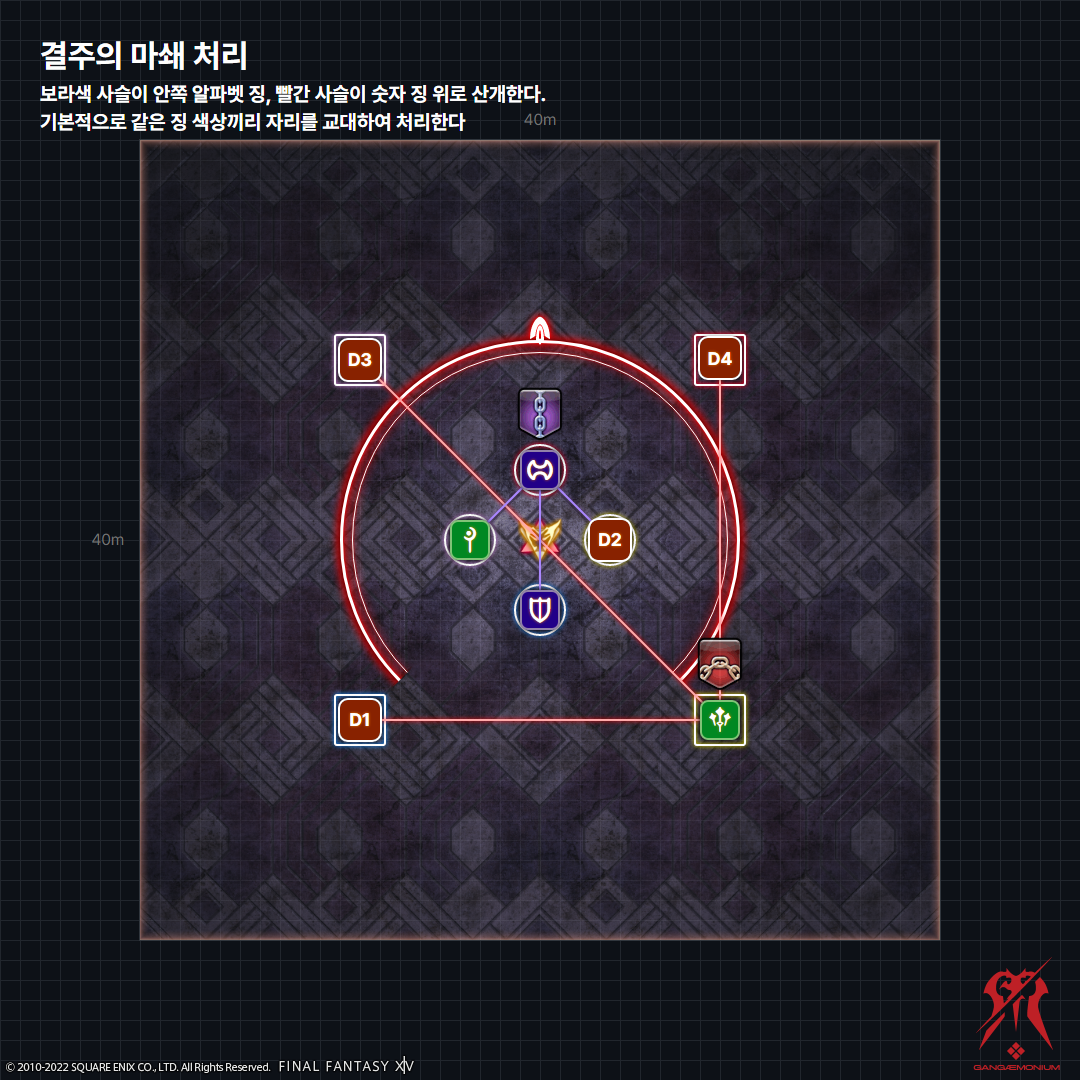
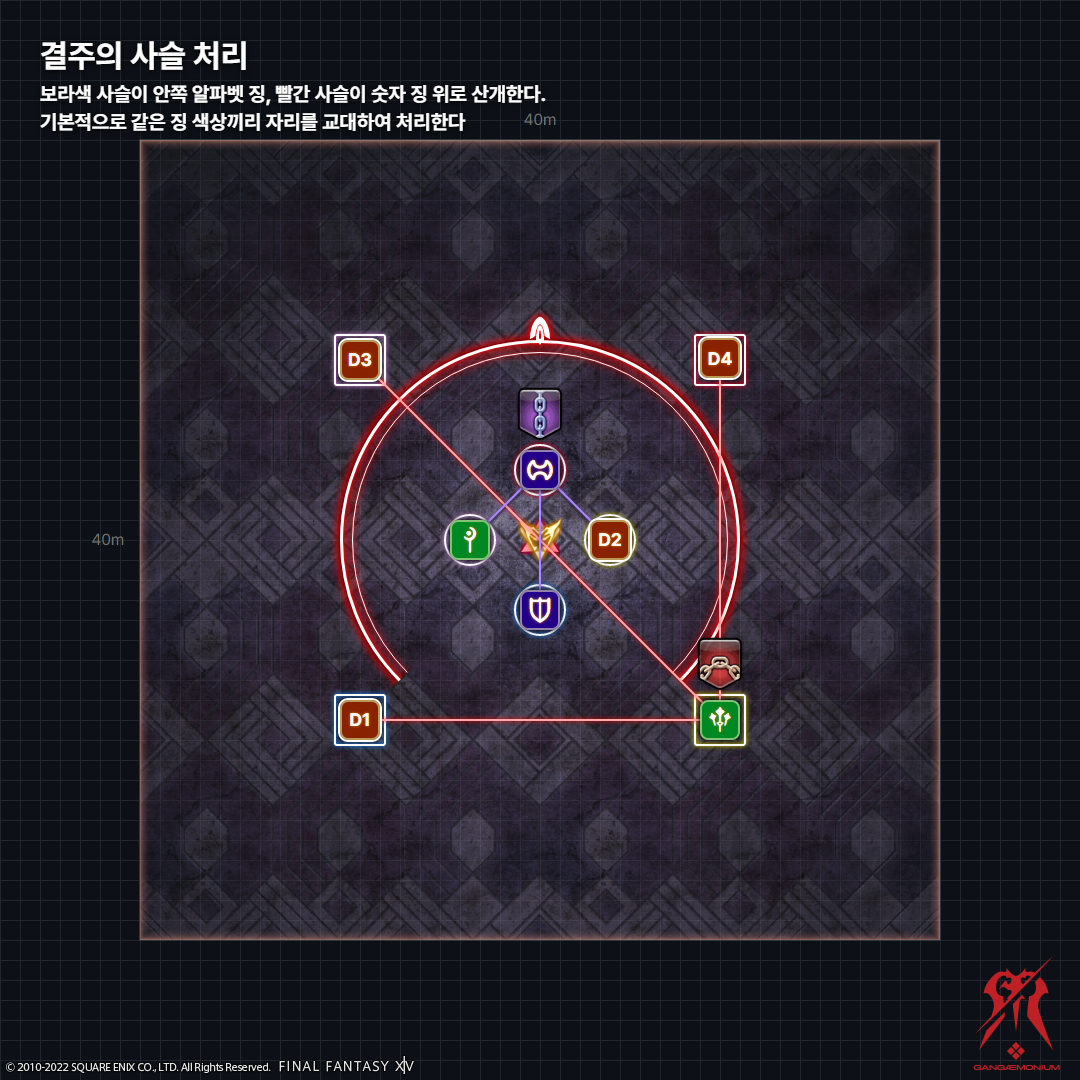
update `p1s`

Changed region(s): [[0.0306, 0.0306, 0.4278, 0.1222], [0.4583, 0.0611, 0.4889, 0.0917], [0.0306, 0.0306, 0.0611, 0.0611]]

diff --git a/timeline/p1s.md b/timeline/p1s.md
@@ -16,118 +16,117 @@
 ### 1층 타임라인
 --------
 
-|Time|J: 기술명(일)<br>E: 기술명(영)<br>번역: 기술명(번역)<br>한: 기술명(한)|설명|
+|Time|J: 기술명(일)<br>E: 기술명(영)<br>한: 기술명(번역)|설명|
 |---:|---|---|
 |0:00||보스 평타: 물딜|
-|0:14|J: 痛撃<br>E: Heavy Hand<br>번역: 통격<br>한: |1어글자 강공격|
-|0:23|J: 結呪の魔鎖<br>E: Aetherial Shackles<br>번역: 결주의 마쇄<br>한: |랜덤 2명에게 근주/원주의 마쇄 부여|
-|0:32|J: 魔鎖乱流<br>E: Warder's Wrath<br>번역: 마쇄난류<br>한: |광딜|
-|0:42|J: 結呪執行<br>E: Chain Pain<br>번역: 결주집행<br>한: |근주/원주의 마쇄 발동|
-|0:58|J: 懲罰撃<br>E: Gaoler's Flail<br>번역: 징벌격<br>한: |사슬을 떨어뜨린 순서대로 270˚ 부채꼴 공격 1타|
-|1:01|J: 懲罰撃<br>E: Gaoler's Flail<br>번역: 징벌격<br>한: |사슬을 떨어뜨린 순서대로 270˚ 부채꼴 공격 2타|
-|1:12|J: 懲罰連撃：炎<br>E: Pitiless Flail of Purgation<br>번역: 징벌연격: 염<br>한: |1어글자에게 넉백공격 이후 1어글자 기준 거리감쇄|
-||J: 懲罰連撃：聖<br>E: Pitiless Flail of Grace<br>번역: 징벌연격: 성<br>한: |1어글자에게 넉백공격 이후 1어글자 기준 쉐어|
-|1:16|J: トゥルー・フレア<br>E: True Flare<br>번역: 진 플레어<br>한: |1어글자 기준 거리 감쇄|
-||J: トゥルー・ホーリー<br>E: True Holy<br>번역: 진 홀리<br>한: |1어글자 기준 쉐어|
-|1:31|J: 懲罰撃<br>E: Gaoler's Flail<br>번역: 징벌격<br>한: |사슬을 떨어뜨린 순서대로 다이나모(차크람) OR 채리엇(모닝스타) 1타|
-|1:34|J: 懲罰撃<br>E: Gaoler's Flail<br>번역: 징벌격<br>한: |사슬을 떨어뜨린 순서대로 다이나모(차크람) OR 채리엇(모닝스타) 2타|
-|1:58|J: 氷炎の侵食<br>E: Intemperance<br>번역: 얼음과 불의 침식<br>한: |필드 9개로 나눠지고 크리스탈 생성|
-|2:15|J: 侵食執行<br>E: Intemperate Torment<br>번역: 침식집행<br>한: |크리스탈 발동|
-||J: 魔力解放・火<br>E: Hot Spell<br>번역: 마력 해방: 불<br>한: |크리스탈 폭발|
-||J: 魔力解放・氷<br>E: Cold Spell<br>번역: 마력 해방: 얼음<br>한: |크리스탈 폭발|
-|2:22|J: 魔鎖乱流<br>E: Warder's Wrath<br>번역: 마쇄난류<br>한: |광딜|
-|2:27|J: 魔力解放・火<br>E: Hot Spell<br>번역: 마력 해방: 불<br>한: |크리스탈 폭발|
-||J: 魔力解放・氷<br>E: Cold Spell<br>번역: 마력 해방: 얼음<br>한: |크리스탈 폭발|
-|2:32|J: 魔鎖乱流<br>E: Warder's Wrath<br>번역: 마쇄난류<br>한: |광딜|
-|2:37|J: 魔力解放・火<br>E: Hot Spell<br>번역: 마력 해방: 불<br>한: |크리스탈 폭발|
-||J: 魔力解放・氷<br>E: Cold Spell<br>번역: 마력 해방: 얼음<br>한: |크리스탈 폭발|
-|2:49|J: 懲罰連撃：炎<br>E: Pitiless Flail of Purgation<br>번역: 징벌연격: 염<br>한: |1어글자에게 넉백공격 이후 1어글자 기준 거리감쇄|
-||J: 懲罰連撃：聖<br>E: Pitiless Flail of Grace<br>번역: 징벌연격: 성<br>한: |1어글자에게 넉백공격 이후 1어글자 기준 쉐어|
-|2:53|J: トゥルー・フレア<br>E: True Flare<br>번역: 진 플레어<br>한: |1어글자 기준 거리 감쇄|
-||J: トゥルー・ホーリー<br>E: True Holy<br>번역: 진 홀리<br>한: |1어글자 기준 쉐어|
-|3:09|J: 光炎監獄<br>E: Shining Cells<br>번역: 광염감옥<br>한: |광딜 / 맵 변경|
-|3:28|J: 懲罰爆鎖<br>E: Aetherflail<br>번역: 징벌 폭쇄<br>한: |광 or 염 / 왼 or 오 / 다이나모 or 채리엇 1타|
-|3:31|J: 懲罰爆鎖<br>E: Aetherflail<br>번역: 징벌 폭쇄<br>한: |광 or 염 / 왼 or 오 / 다이나모 or 채리엇 2타|
-|3:45|J: 懲罰連撃：炎<br>E: Pitiless Flail of Purgation<br>번역: 징벌연격: 염<br>한: |1어글자에게 넉백공격 이후 1어글자 기준 거리감쇄|
-||J: 懲罰連撃：聖<br>E: Pitiless Flail of Grace<br>번역: 징벌연격: 성<br>한: |1어글자에게 넉백공격 이후 1어글자 기준 쉐어|
-|3:48|J: トゥルー・フレア<br>E: True Flare<br>번역: 진 플레어<br>한: |1어글자 기준 거리 감쇄|
-||J: トゥルー・ホーリー<br>E: True Holy<br>번역: 진 홀리<br>한: |1어글자 기준 쉐어|
-|4:04|J: 懲罰爆鎖<br>E: Aetherflail<br>번역: 징벌 폭쇄<br>한: |광 or 염 / 왼 or 오 / 다이나모 or 채리엇 1타|
-|4:07|J: 懲罰爆鎖<br>E: Aetherflail<br>번역: 징벌 폭쇄<br>한: |광 or 염 / 왼 or 오 / 다이나모 or 채리엇 2타|
-|4:16|J: 時限の魔鎖<br>E: Shackles of Time<br>번역: 시한의 마쇄<br>한: |랜덤 1명 시한의 마쇄 부여|
-|4:26|J: 痛撃<br>E: Heavy Hand<br>번역: 통격<br>한: |1어글자 강공격|
-|4:30|J: 時限の魔鎖<br>E: Shackles of Time 발동<br>번역: 시한의 마쇄 발동<br>한: |시한의 마쇄 대상자가 올라가 있는 속성의 필드 폭발|
-|4:39|J: 監獄閉塞<br>E: Slam Shut<br>번역: 감옥폐색<br>한: |광딜 / 맵 변경|
-|4:55|J: 結呪の四連魔鎖<br>E: Fourfold Shackles<br>번역: 결주의 사연마쇄<br>한: |랜덤 4/4명에게 근주/원주의 마쇄 부여|
-|5:04|J: 結呪の四連魔鎖<br>E: Fourfold Shackles<br>번역: 결주의 사연마쇄<br>한: |마쇄 3초 발동|
-|5:09|J: 結呪の四連魔鎖<br>E: Fourfold Shackles<br>번역: 결주의 사연마쇄<br>한: |마쇄 8초 발동|
-|5:14|J: 結呪の四連魔鎖<br>E: Fourfold Shackles<br>번역: 결주의 사연마쇄<br>한: |마쇄 13초 발동|
-|5:19|J: 結呪の四連魔鎖<br>E: Fourfold Shackles<br>번역: 결주의 사연마쇄<br>한: |마쇄 18초 발동|
-|5:29|J: 魔鎖乱流<br>E: Warder's Wrath<br>번역: 마쇄난류<br>한: |광딜|
-|5:42|J: 氷炎の侵食<br>E: Intemperance<br>번역: 얼음과 불의 침식<br>한: |필드 9개로 나눠지고 크리스탈 생성|
-|5:59|J: 侵食執行<br>E: Intemperate Torment<br>번역: 침식집행<br>한: |크리스탈 발동|
-|5:59|J: 魔力解放・火<br>E: Hot Spell<br>번역: 마력 해방: 불<br>한: |크리스탈 폭발|
-||J: 魔力解放・氷<br>E: Cold Spell<br>번역: 마력 해방: 얼음<br>한: |크리스탈 폭발|
-|6:10|J: 魔力解放・火<br>E: Hot Spell<br>번역: 마력 해방: 불<br>한: |크리스탈 폭발|
-||J: 魔力解放・氷<br>E: Cold Spell<br>번역: 마력 해방: 얼음<br>한: |크리스탈 폭발|
-|6:14|J: 懲罰撃<br>E: Gaoler's Flail<br>번역: 징벌격<br>한: |다이나모 OR 채리엇 1타|
-||J: 懲罰撃<br>E: Gaoler's Flail<br>번역: 징벌격<br>한: |다이나모 OR 채리엇 2타|
-|6:21|J: 魔力解放・火<br>E: Hot Spell<br>번역: 마력 해방: 불<br>한: |크리스탈 폭발|
-||J: 魔力解放・氷<br>E: Cold Spell<br>번역: 마력 해방: 얼음<br>한: |크리스탈 폭발|
-|6:30|J: 魔鎖乱流<br>E: Warder's Wrath<br>번역: 마쇄난류<br>한: |광딜|
-|6:48|J: 光炎監獄<br>E: Shining Cells<br>번역: 광염감옥<br>한: |광딜 / 맵 변경|
+|0:14|J: 痛撃<br>E: Heavy Hand<br>한: 통격|1어글자 강공격|
+|0:23|J: 結呪の魔鎖<br>E: Aetherial Shackles<br>한: 결주의 사슬|랜덤 2명에게 근주/원주의 사슬 부여|
+|0:32|J: 魔鎖乱流<br>E: Warder's Wrath<br>한: 사슬난류|광딜|
+|0:42|J: 結呪執行<br>E: Chain Pain<br>한: 결주집행|근주/원주의 사슬 발동|
+|0:58|J: 懲罰撃<br>E: Gaoler's Flail<br>한: 징벌격|사슬을 떨어뜨린 순서대로 270˚ 부채꼴 공격 1타|
+|1:01|J: 懲罰撃<br>E: Gaoler's Flail<br>한: 징벌격|사슬을 떨어뜨린 순서대로 270˚ 부채꼴 공격 2타|
+|1:12|J: 懲罰連撃：炎<br>E: Pitiless Flail of Purgation<br>한: 징벌 연격: 염|1어글자에게 넉백공격 이후 1어글자 기준 거리감쇄|
+||J: 懲罰連撃：聖<br>E: Pitiless Flail of Grace<br>한: 징벌 연격: 신성|1어글자에게 넉백공격 이후 1어글자 기준 쉐어|
+|1:16|J: トゥルー・フレア<br>E: True Flare<br>한: 진 플레어|1어글자 기준 거리 감쇄|
+||J: トゥルー・ホーリー<br>E: True Holy<br>한: 진 홀리|1어글자 기준 쉐어|
+|1:31|J: 懲罰撃<br>E: Gaoler's Flail<br>한: 징벌격|사슬을 떨어뜨린 순서대로 다이나모(내부 안전지대)(차크람) OR 채리엇(외부 안전지대)(모닝스타) 1타|
+|1:34|J: 懲罰撃<br>E: Gaoler's Flail<br>한: 징벌격|사슬을 떨어뜨린 순서대로 다이나모(내부 안전지대)(차크람) OR 채리엇(외부 안전지대)(모닝스타) 2타|
+|1:58|J: 氷炎の侵食<br>E: Intemperance<br>한: 얼음불 침식|필드 9개로 나눠지고 크리스탈 생성|
+|2:15|J: 侵食執行<br>E: Intemperate Torment<br>한: 침식 집행|크리스탈 발동|
+||J: 魔力解放・火<br>E: Hot Spell<br>한: 마력 해방: 불|크리스탈 폭발|
+||J: 魔力解放・氷<br>E: Cold Spell<br>한: 마력 해방: 얼음|크리스탈 폭발|
+|2:22|J: 魔鎖乱流<br>E: Warder's Wrath<br>한: 사슬난류|광딜|
+|2:27|J: 魔力解放・火<br>E: Hot Spell<br>한: 마력 해방: 불|크리스탈 폭발|
+||J: 魔力解放・氷<br>E: Cold Spell<br>한: 마력 해방: 얼음|크리스탈 폭발|
+|2:32|J: 魔鎖乱流<br>E: Warder's Wrath<br>한: 사슬난류|광딜|
+|2:37|J: 魔力解放・火<br>E: Hot Spell<br>한: 마력 해방: 불|크리스탈 폭발|
+||J: 魔力解放・氷<br>E: Cold Spell<br>한: 마력 해방: 얼음|크리스탈 폭발|
+|2:49|J: 懲罰連撃：炎<br>E: Pitiless Flail of Purgation<br>한: 징벌 연격: 염|1어글자에게 넉백공격 이후 1어글자 기준 거리감쇄|
+||J: 懲罰連撃：聖<br>E: Pitiless Flail of Grace<br>한: 징벌 연격: 신성|1어글자에게 넉백공격 이후 1어글자 기준 쉐어|
+|2:53|J: トゥルー・フレア<br>E: True Flare<br>한: 진 플레어|1어글자 기준 거리 감쇄|
+||J: トゥルー・ホーリー<br>E: True Holy<br>한: 진 홀리|1어글자 기준 쉐어|
+|3:09|J: 光炎監獄<br>E: Shining Cells<br>한: 광염 감옥|광딜 / 맵 변경|
+|3:28|J: 懲罰爆鎖<br>E: Aetherflail<br>한: 징벌 폭쇄|광 or 염 / 왼 or 오 / 다이나모(내부 안전지대) or 채리엇(외부 안전지대) 1타|
+|3:31|J: 懲罰爆鎖<br>E: Aetherflail<br>한: 징벌 폭쇄|광 or 염 / 왼 or 오 / 다이나모(내부 안전지대) or 채리엇(외부 안전지대) 2타|
+|3:45|J: 懲罰連撃：炎<br>E: Pitiless Flail of Purgation<br>한: 징벌 연격: 염|1어글자에게 넉백공격 이후 1어글자 기준 거리감쇄|
+||J: 懲罰連撃：聖<br>E: Pitiless Flail of Grace<br>한: 징벌 연격: 신성|1어글자에게 넉백공격 이후 1어글자 기준 쉐어|
+|3:48|J: トゥルー・フレア<br>E: True Flare<br>한: 진 플레어|1어글자 기준 거리 감쇄|
+||J: トゥルー・ホーリー<br>E: True Holy<br>한: 진 홀리|1어글자 기준 쉐어|
+|4:04|J: 懲罰爆鎖<br>E: Aetherflail<br>한: 징벌 폭쇄|광 or 염 / 왼 or 오 / 다이나모(내부 안전지대) or 채리엇(외부 안전지대) 1타|
+|4:07|J: 懲罰爆鎖<br>E: Aetherflail<br>한: 징벌 폭쇄|광 or 염 / 왼 or 오 / 다이나모(내부 안전지대) or 채리엇(외부 안전지대) 2타|
+|4:16|J: 時限の魔鎖<br>E: Shackles of Time<br>한: 시한부 사슬|랜덤 1명 시한부 사슬 부여|
+|4:26|J: 痛撃<br>E: Heavy Hand<br>한: 통격|1어글자 강공격|
+|4:30|J: 時限の魔鎖<br>E: Shackles of Time 발동<br>한: 시한부 사슬 발동|시한부 사슬 대상자가 올라가 있는 속성의 필드 폭발|
+|4:39|J: 監獄閉塞<br>E: Slam Shut<br>한: 감옥폐쇄|광딜 / 맵 변경|
+|4:55|J: 結呪の四連魔鎖<br>E: Fourfold Shackles<br>한: 결주의 사연 사슬|랜덤 4/4명에게 근주/원주의 사슬 부여|
+|5:04|J: 結呪の四連魔鎖<br>E: Fourfold Shackles<br>한: 결주의 사연 사슬|사슬 3초 발동|
+|5:09|J: 結呪の四連魔鎖<br>E: Fourfold Shackles<br>한: 결주의 사연 사슬|사슬 8초 발동|
+|5:14|J: 結呪の四連魔鎖<br>E: Fourfold Shackles<br>한: 결주의 사연 사슬|사슬 13초 발동|
+|5:19|J: 結呪の四連魔鎖<br>E: Fourfold Shackles<br>한: 결주의 사연 사슬|사슬 18초 발동|
+|5:29|J: 魔鎖乱流<br>E: Warder's Wrath<br>한: 사슬난류|광딜|
+|5:42|J: 氷炎の侵食<br>E: Intemperance<br>한: 얼음불 침식|필드 9개로 나눠지고 크리스탈 생성|
+|5:59|J: 侵食執行<br>E: Intemperate Torment<br>한: 침식 집행|크리스탈 발동|
+|5:59|J: 魔力解放・火<br>E: Hot Spell<br>한: 마력 해방: 불|크리스탈 폭발|
+||J: 魔力解放・氷<br>E: Cold Spell<br>한: 마력 해방: 얼음|크리스탈 폭발|
+|6:10|J: 魔力解放・火<br>E: Hot Spell<br>한: 마력 해방: 불|크리스탈 폭발|
+||J: 魔力解放・氷<br>E: Cold Spell<br>한: 마력 해방: 얼음|크리스탈 폭발|
+|6:14|J: 懲罰撃<br>E: Gaoler's Flail<br>한: 징벌격|다이나모(내부 안전지대) OR 채리엇(외부 안전지대) 1타|
+||J: 懲罰撃<br>E: Gaoler's Flail<br>한: 징벌격|다이나모(내부 안전지대) OR 채리엇(외부 안전지대) 2타|
+|6:21|J: 魔力解放・火<br>E: Hot Spell<br>한: 마력 해방: 불|크리스탈 폭발|
+||J: 魔力解放・氷<br>E: Cold Spell<br>한: 마력 해방: 얼음|크리스탈 폭발|
+|6:30|J: 魔鎖乱流<br>E: Warder's Wrath<br>한: 사슬난류|광딜|
+|6:48|J: 光炎監獄<br>E: Shining Cells<br>한: 광염 감옥|광딜 / 맵 변경|
 
-## 타임라인 A - 마쇄 우선
+## 타임라인 A - 사슬 우선
 
-|Time|J: 기술명(일)<br>E: 기술명(영)<br>번역: 기술명(번역)<br>한: 기술명(한)|설명|
+|Time|J: 기술명(일)<br>E: 기술명(영)<br>한: 기술명(번역)|설명|
 |---:|---|---|
-|6:58|J: 時限の魔鎖<br>E: Shackles of Time<br>번역: 시한의 마쇄<br>한: |랜덤 1명 시한의 마쇄 부여|
-|7:06|J: 懲罰連撃：炎<br>E: Pitiless Flail of Purgation<br>번역: 징벌연격: 염<br>한: |1어글자에게 넉백공격 이후 1어글자 기준 거리감쇄|
-||J: 懲罰連撃：聖<br>E: Pitiless Flail of Grace<br>번역: 징벌연격: 성<br>한: |1어글자에게 넉백공격 이후 1어글자 기준 쉐어|
-|7:10|J: トゥルー・フレア<br>E: True Flare<br>번역: 진 플레어<br>한: |1어글자 기준 거리 감쇄|
-||J: トゥルー・ホーリー<br>E: True Holy<br>번역: 진 홀리<br>한: |1어글자 기준 쉐어|
-|7:12|J: 時限の魔鎖<br>E: Shackles of Time 발동<br>번역: 시한의 마쇄 발동<br>한: |시한의 마쇄 대상자가 올라가 있는 속성의 필드 폭발|
-|7:22|J: 魔鎖乱流<br>E: Warder's Wrath<br>번역: 마쇄난류<br>한: |광딜|
-|7:34|J: 結呪の魔鎖<br>E: Aetherial Shackles<br>번역: 결주의 마쇄<br>한: |랜덤 2명에게 근주/원주의 마쇄 부여|
-|7:45|J: 爆鎖<br>E: Aetherchain<br>번역: 폭쇄<br>한: |광 or 염|
-|7:53|J: 結呪の魔鎖<br>E: Aetherial Shackles 발동<br>번역: 결주의 마쇄 발동<br>한: |근주/원주의 마쇄 발동|
-||J: 爆鎖<br>E: Aetherchain<br>번역: 폭쇄<br>한: |광 or 염|
-|8:06|J: 魔鎖乱流<br>E: Warder's Wrath<br>번역: 마쇄난류<br>한: |광딜|
-|8:26|J: 懲罰爆鎖<br>E: Aetherflail<br>번역: 징벌 폭쇄<br>한: |광 or 염 / 왼 or 오 / 다이나모 or 채리엇 1타|
-|8:29|J: 懲罰爆鎖<br>E: Aetherflail<br>번역: 징벌 폭쇄<br>한: |광 or 염 / 왼 or 오 / 다이나모 or 채리엇 2타|
-|8:44|J: 懲罰爆鎖<br>E: Aetherflail<br>번역: 징벌 폭쇄<br>한: |광 or 염 / 왼 or 오 / 다이나모 or 채리엇 1타|
-|8:47|J: 懲罰爆鎖<br>E: Aetherflail<br>번역: 징벌 폭쇄<br>한: |광 or 염 / 왼 or 오 / 다이나모 or 채리엇 2타|
-|9:02|J: 懲罰爆鎖<br>E: Aetherflail<br>번역: 징벌 폭쇄<br>한: |광 or 염 / 다이나모 or 채리엇 1타|
-|9:05|J: 懲罰爆鎖<br>E: Aetherflail<br>번역: 징벌 폭쇄<br>한: |광 or 염 / 다이나모 or 채리엇 2타|
-|9:21|J: 魔鎖乱流<br>E: Warder's Wrath<br>번역: 마쇄난류<br>한: |광딜|
-|9:30|J: 魔鎖乱流<br>E: Warder's Wrath<br>번역: 마쇄난류<br>한: |광딜|
-|9:39|J: 魔鎖乱流<br>E: Warder's Wrath<br>번역: 마쇄난류<br>한: |광딜|
-|9:57|J: 辺獄送り<br>E: Lethe<br>번역: 변옥 이송<br>한: |전멸기|
-
+|6:58|J: 時限の魔鎖<br>E: Shackles of Time<br>한: 시한부 사슬|랜덤 1명 시한부 사슬 부여|
+|7:06|J: 懲罰連撃：炎<br>E: Pitiless Flail of Purgation<br>한: 징벌 연격: 염|1어글자에게 넉백공격 이후 1어글자 기준 거리감쇄|
+||J: 懲罰連撃：聖<br>E: Pitiless Flail of Grace<br>한: 징벌 연격: 신성|1어글자에게 넉백공격 이후 1어글자 기준 쉐어|
+|7:10|J: トゥルー・フレア<br>E: True Flare<br>한: 진 플레어|1어글자 기준 거리 감쇄|
+||J: トゥルー・ホーリー<br>E: True Holy<br>한: 진 홀리|1어글자 기준 쉐어|
+|7:12|J: 時限の魔鎖<br>E: Shackles of Time 발동<br>한: 시한부 사슬 발동|시한부 사슬 대상자가 올라가 있는 속성의 필드 폭발|
+|7:22|J: 魔鎖乱流<br>E: Warder's Wrath<br>한: 사슬난류|광딜|
+|7:34|J: 結呪の魔鎖<br>E: Aetherial Shackles<br>한: 결주의 사슬|랜덤 2명에게 근주/원주의 사슬 부여|
+|7:45|J: 爆鎖<br>E: Aetherchain<br>한: 폭쇄|광 or 염|
+|7:53|J: 結呪の魔鎖<br>E: Aetherial Shackles 발동<br>한: 결주의 사슬 발동|근주/원주의 사슬 발동|
+||J: 爆鎖<br>E: Aetherchain<br>한: 폭쇄|광 or 염|
+|8:06|J: 魔鎖乱流<br>E: Warder's Wrath<br>한: 사슬난류|광딜|
+|8:26|J: 懲罰爆鎖<br>E: Aetherflail<br>한: 징벌 폭쇄|광 or 염 / 왼 or 오 / 다이나모(내부 안전지대) or 채리엇(외부 안전지대) 1타|
+|8:29|J: 懲罰爆鎖<br>E: Aetherflail<br>한: 징벌 폭쇄|광 or 염 / 왼 or 오 / 다이나모(내부 안전지대) or 채리엇(외부 안전지대) 2타|
+|8:44|J: 懲罰爆鎖<br>E: Aetherflail<br>한: 징벌 폭쇄|광 or 염 / 왼 or 오 / 다이나모(내부 안전지대) or 채리엇(외부 안전지대) 1타|
+|8:47|J: 懲罰爆鎖<br>E: Aetherflail<br>한: 징벌 폭쇄|광 or 염 / 왼 or 오 / 다이나모(내부 안전지대) or 채리엇(외부 안전지대) 2타|
+|9:02|J: 懲罰爆鎖<br>E: Aetherflail<br>한: 징벌 폭쇄|광 or 염 / 다이나모(내부 안전지대) or 채리엇(외부 안전지대) 1타|
+|9:05|J: 懲罰爆鎖<br>E: Aetherflail<br>한: 징벌 폭쇄|광 or 염 / 다이나모(내부 안전지대) or 채리엇(외부 안전지대) 2타|
+|9:21|J: 魔鎖乱流<br>E: Warder's Wrath<br>한: 사슬난류|광딜|
+|9:30|J: 魔鎖乱流<br>E: Warder's Wrath<br>한: 사슬난류|광딜|
+|9:39|J: 魔鎖乱流<br>E: Warder's Wrath<br>한: 사슬난류|광딜|
+|9:57|J: 辺獄送り<br>E: Lethe<br>한: 변옥 이송|전멸기|
 
 ## 타임라인 B - 사슬 우선
 
-|Time|J: 기술명(일)<br>E: 기술명(영)<br>번역: 기술명(번역)<br>한: 기술명(한)|설명|
+|Time|J: 기술명(일)<br>E: 기술명(영)<br>한: 기술명(번역)|설명|
 |---:|---|---|
-|7:00|J: 結呪の魔鎖<br>E: Aetherial Shackles<br>번역: 결주의 마쇄<br>한: |랜덤 2명에게 근주/원주의 마쇄 부여|
-|7:05|J: 爆鎖<br>E: Aetherchain<br>번역: 폭쇄<br>한: |광 or 염|
-|7:16|J: 結呪の魔鎖<br>E: Aetherial Shackles 발동<br>번역: 결주의 마쇄 발동<br>한: |근주/원주의 마쇄 발동|
-|7:20|J: 爆鎖<br>E: Aetherchain<br>번역: 폭쇄<br>한: |광 or 염|
-|7:28|J: 魔鎖乱流<br>E: Warder's Wrath<br>번역: 마쇄난류<br>한: |광딜|
-|7:40|J: 時限の魔鎖<br>E: Shackles of Time<br>번역: 시한의 마쇄<br>한: |랜덤 1명 시한의 마쇄 부여|
-|7:42|J: 懲罰連撃：炎<br>E: Pitiless Flail of Purgation<br>번역: 징벌연격: 염<br>한: |1어글자에게 넉백공격 이후 1어글자 기준 거리감쇄|
-||J: 懲罰連撃：聖<br>E: Pitiless Flail of Grace<br>번역: 징벌연격: 성<br>한: |1어글자에게 넉백공격 이후 1어글자 기준 쉐어|
-|7:51|J: トゥルー・フレア<br>E: True Flare<br>번역: 진 플레어<br>한: |1어글자 기준 거리 감쇄|
-||J: トゥルー・ホーリー<br>E: True Holy<br>번역: 진 홀리<br>한: |1어글자 기준 쉐어|
-|7:54|J: 時限の魔鎖<br>E: Shackles of Time 발동<br>번역: 시한의 마쇄 발동<br>한: |시한의 마쇄 대상자가 올라가 있는 속성의 필드 폭발|
-|8:05|J: 魔鎖乱流<br>E: Warder's Wrath<br>번역: 마쇄난류<br>한: |광딜|
-|8:26|J: 懲罰爆鎖<br>E: Aetherflail<br>번역: 징벌 폭쇄<br>한: |광 or 염 / 왼 or 오 / 다이나모 or 채리엇 1타|
-|8:29|J: 懲罰爆鎖<br>E: Aetherflail<br>번역: 징벌 폭쇄<br>한: |광 or 염 / 왼 or 오 / 다이나모 or 채리엇 2타|
-|8:44|J: 懲罰爆鎖<br>E: Aetherflail<br>번역: 징벌 폭쇄<br>한: |광 or 염 / 왼 or 오 / 다이나모 or 채리엇 1타|
-|8:47|J: 懲罰爆鎖<br>E: Aetherflail<br>번역: 징벌 폭쇄<br>한: |광 or 염 / 왼 or 오 / 다이나모 or 채리엇 2타|
-|9:02|J: 懲罰爆鎖<br>E: Aetherflail<br>번역: 징벌 폭쇄<br>한: |광 or 염 / 다이나모 or 채리엇 1타|
-|9:05|J: 懲罰爆鎖<br>E: Aetherflail<br>번역: 징벌 폭쇄<br>한: |광 or 염 / 다이나모 or 채리엇 2타|
-|9:21|J: 魔鎖乱流<br>E: Warder's Wrath<br>번역: 마쇄난류<br>한: |광딜|
-|9:30|J: 魔鎖乱流<br>E: Warder's Wrath<br>번역: 마쇄난류<br>한: |광딜|
-|9:39|J: 魔鎖乱流<br>E: Warder's Wrath<br>번역: 마쇄난류<br>한: |광딜|
-|9:57|J: 辺獄送り<br>E: Lethe<br>번역: 변옥 이송<br>한: |전멸기|
+|7:00|J: 結呪の魔鎖<br>E: Aetherial Shackles<br>한: 결주의 사슬|랜덤 2명에게 근주/원주의 사슬 부여|
+|7:05|J: 爆鎖<br>E: Aetherchain<br>한: 폭쇄|광 or 염|
+|7:16|J: 結呪の魔鎖<br>E: Aetherial Shackles 발동<br>한: 결주의 사슬 발동|근주/원주의 사슬 발동|
+|7:20|J: 爆鎖<br>E: Aetherchain<br>한: 폭쇄|광 or 염|
+|7:28|J: 魔鎖乱流<br>E: Warder's Wrath<br>한: 사슬난류|광딜|
+|7:40|J: 時限の魔鎖<br>E: Shackles of Time<br>한: 시한부 사슬|랜덤 1명 시한부 사슬 부여|
+|7:42|J: 懲罰連撃：炎<br>E: Pitiless Flail of Purgation<br>한: 징벌 연격: 염|1어글자에게 넉백공격 이후 1어글자 기준 거리감쇄|
+||J: 懲罰連撃：聖<br>E: Pitiless Flail of Grace<br>한: 징벌 연격: 신성|1어글자에게 넉백공격 이후 1어글자 기준 쉐어|
+|7:51|J: トゥルー・フレア<br>E: True Flare<br>한: 진 플레어|1어글자 기준 거리 감쇄|
+||J: トゥルー・ホーリー<br>E: True Holy<br>한: 진 홀리|1어글자 기준 쉐어|
+|7:54|J: 時限の魔鎖<br>E: Shackles of Time 발동<br>한: 시한부 사슬 발동|시한부 사슬 대상자가 올라가 있는 속성의 필드 폭발|
+|8:05|J: 魔鎖乱流<br>E: Warder's Wrath<br>한: 사슬난류|광딜|
+|8:26|J: 懲罰爆鎖<br>E: Aetherflail<br>한: 징벌 폭쇄|광 or 염 / 왼 or 오 / 다이나모(내부 안전지대) or 채리엇(외부 안전지대) 1타|
+|8:29|J: 懲罰爆鎖<br>E: Aetherflail<br>한: 징벌 폭쇄|광 or 염 / 왼 or 오 / 다이나모(내부 안전지대) or 채리엇(외부 안전지대) 2타|
+|8:44|J: 懲罰爆鎖<br>E: Aetherflail<br>한: 징벌 폭쇄|광 or 염 / 왼 or 오 / 다이나모(내부 안전지대) or 채리엇(외부 안전지대) 1타|
+|8:47|J: 懲罰爆鎖<br>E: Aetherflail<br>한: 징벌 폭쇄|광 or 염 / 왼 or 오 / 다이나모(내부 안전지대) or 채리엇(외부 안전지대) 2타|
+|9:02|J: 懲罰爆鎖<br>E: Aetherflail<br>한: 징벌 폭쇄|광 or 염 / 다이나모(내부 안전지대) or 채리엇(외부 안전지대) 1타|
+|9:05|J: 懲罰爆鎖<br>E: Aetherflail<br>한: 징벌 폭쇄|광 or 염 / 다이나모(내부 안전지대) or 채리엇(외부 안전지대) 2타|
+|9:21|J: 魔鎖乱流<br>E: Warder's Wrath<br>한: 사슬난류|광딜|
+|9:30|J: 魔鎖乱流<br>E: Warder's Wrath<br>한: 사슬난류|광딜|
+|9:39|J: 魔鎖乱流<br>E: Warder's Wrath<br>한: 사슬난류|광딜|
+|9:57|J: 辺獄送り<br>E: Lethe<br>한: 변옥 이송|전멸기|

diff --git a/p1s/README.md b/p1s/README.md
@@ -17,7 +17,7 @@
 
 - 통격
     - 적개심 1위에게 물리 강공격, 탱커가 생존기 처리
-- 마쇄난류
+- 사슬난류
     - 적당히 아픈 물리 광역 공격
 - 징벌격
     - 보스가 양쪽에 사슬을 두 번 떨어뜨림. 먼저 떨어뜨린 사슬부터 공격 실행
@@ -27,36 +27,36 @@
     - [차크람](#징벌격-범위-안전지대-내부): 보스 기준 도넛형 범위 공격
     - 1페이즈: `갈고리 + 갈고리` or `철퇴 + 차크람`, 앞에 나오지 않은 패턴이 뒤에 나옴
     - 두 번째 침식집행: `철퇴 + 차크람` 고정
-- [얼음과 불의 침식](#얼음과-불의-침식-타입a)
+- [얼음불 침식](#얼음과-불의-침식-타입a)
     - 맵이 9개의 지역으로 나누어지고 중앙을 제외한 8개의 지역에 각각 3개의 크리스탈 생성
     - 빨간색 크리스탈: 불의 각인을 가지고 있지 않은 대상자가 처리, 처리 시 불의 각인이 부여됨
     - 파란색 크리스탈: 얼음의 각인을 가지고 있지 않은 대상자가 처리, 처리 시 얼음의 각인이 부여됨
     - 보라색 크리스탈: 즉사 데미지 (들어가지 말 것)
     - 보스가 `침식집행`을 시전할 때 바닥을 짚고 있는 손에서 빛이 나면 아래에서 위로, 위로 들어올린 손에서 빛이 나면 위에서 아래로 크리스탈이 발동
-    - 얼음과 불의 침식 패턴은 총 2개이며, 앞에 나오지 않은 패턴이 뒤에 나옴
+    - 얼음불 침식 패턴은 총 2개이며, 앞에 나오지 않은 패턴이 뒤에 나옴
     - 1패턴: 6시 크리스탈이 파란색/파란색/파란색, 자리바꿈 없음
     - 2패턴: 6시 크리스탈이 파란색/파란색/빨간색, 11시와 12시 자리바꿈
-- 얼음과 불의 침식 1 타임라인
+- 얼음불 침식 1 타임라인
     - 첫 번째 크리스탈 발동 (외곽 8지역 산개)
-    - 마쇄난류 발동 (모여서 힐 받기)
+    - 사슬난류 발동 (모여서 힐 받기)
     - 두 번째 크리스탈 발동 (중앙 세로줄 3지역 산개)
-    - 마쇄난류 발동 (모여서 힐 받기)
+    - 사슬난류 발동 (모여서 힐 받기)
     - 세 번째 크리스탈 발동 (외곽 8지역 산개)
-- 얼음과 불의 침식 2 타임라인
+- 얼음불 침식 2 타임라인
     - 첫 번째 크리스탈 발동 (외곽 8지역 산개)
     - 징벌격 시전 (`철퇴 + 차크람` 순서 확인)
     - 두 번째 크리스탈 발동 (중앙 세로줄 3지역 산개)
     - 징벌격 발동
     - 세 번째 크리스탈 발동 (외곽 8지역 산개)
     - **징벌격 2번째 공격과 세 번째 크리스탈 발동 간의 간격이 짧으므로 자기 산개 자리 근처에서 징벌격을 회피해야 함**
-- [광염감옥](#광염감옥)
+- [광염 감옥](#광염 감옥)
     - 아픈 마법 광역 공격과 함께 맵 변환
 - 징벌 폭쇄
     - 보스 주변에 불 또는 빛 구체가 돌아다니며 동시에 징벌격(`갈고리 + 철퇴/차크람`) 시전
     - 보스 주변 구체와 다른 속성 장판이 안전지대
     - 사슬로 나눠진 16개의 구역 중 하나의 구역만 세 종류의 공격을 모두 맞지 않는 안전지대
     - 보스가 징벌격 공격을 둘 다 실행할 때까지 안전지대에서 대기
-- 감옥 폐색
+- 감옥 폐쇄
     - 아픈 마법 광역 공격과 함께 맵 변환
 - 변옥 이송
     - 전멸기
@@ -72,27 +72,27 @@
 ## 징벌격 범위 (안전지대 외부)
 ![/p1s/images/0071.png](https://raw.githubusercontent.com/Gangaemonium/Asphodelos/main/p1s/images/0071.png)
 > 공격은 보스 기준이므로 탱커의 주차가 중요
-## 결주의 마쇄 처리
+## 결주의 사슬 처리
 ![/p1s/images/0029.png](https://raw.githubusercontent.com/Gangaemonium/Asphodelos/main/p1s/images/0029.png)
-## 결주의 사연마쇄 처리
+## 결주의 사연사슬 처리
 ![/p1s/images/0031.png](https://raw.githubusercontent.com/Gangaemonium/Asphodelos/main/p1s/images/0031.png)
-## 징벌연격: 염
+## 징벌 연격: 염
 ![/p1s/images/0032.png](https://raw.githubusercontent.com/Gangaemonium/Asphodelos/main/p1s/images/0032.png)
-## 징벌연격: 성
+## 징벌 연격: 성
 ![/p1s/images/0033.png](https://raw.githubusercontent.com/Gangaemonium/Asphodelos/main/p1s/images/0033.png)
-## 얼음과 불의 침식 타입A
+## 얼음불 침식 타입A
 ![/p1s/images/0042.png](https://raw.githubusercontent.com/Gangaemonium/Asphodelos/main/p1s/images/0042.png)
 > MT는 이동하지 않는다.
-## 얼음과 불의 침식 타입B - 아래서부터
+## 얼음불 침식 타입B - 아래서부터
 ![/p1s/images/0043.png](https://raw.githubusercontent.com/Gangaemonium/Asphodelos/main/p1s/images/0043.png)
 > D3는 자기 자리에서 `얼음`을 부여받고 자리를 이동하면<br>다음 속성은 자연스럽게 `불→얼음`이 되므로 그대로 있으면 된다.
-## 얼음과 불의 침식 타입B - 위에서부터
+## 얼음불 침식 타입B - 위에서부터
 ![/p1s/images/0044.png](https://raw.githubusercontent.com/Gangaemonium/Asphodelos/main/p1s/images/0044.png)
 > MT는 위에서부터 `얼음→불` 이므로 두번째 속성 처리 후<br>D3 자리에 가게 되면 `얼음`속성을 부여받게 된다.<br>
 > D3은 속성 부여 후 ST자리로 이동하여 반대 속성을 부여받고 MT자리로 이동한다.
-## 광염감옥
+## 광염 감옥
 ![/p1s/images/0040.png](https://raw.githubusercontent.com/Gangaemonium/Asphodelos/main/p1s/images/0040.png)
-## 시한의 마쇄
+## 시한의 사슬
 ![/p1s/images/0039.png](https://raw.githubusercontent.com/Gangaemonium/Asphodelos/main/p1s/images/0039.png)
-## 광염감옥 + 결주의 마쇄
+## 광염 감옥 + 결주의 사슬
 ![/p1s/images/0041.png](https://raw.githubusercontent.com/Gangaemonium/Asphodelos/main/p1s/images/0041.png)
